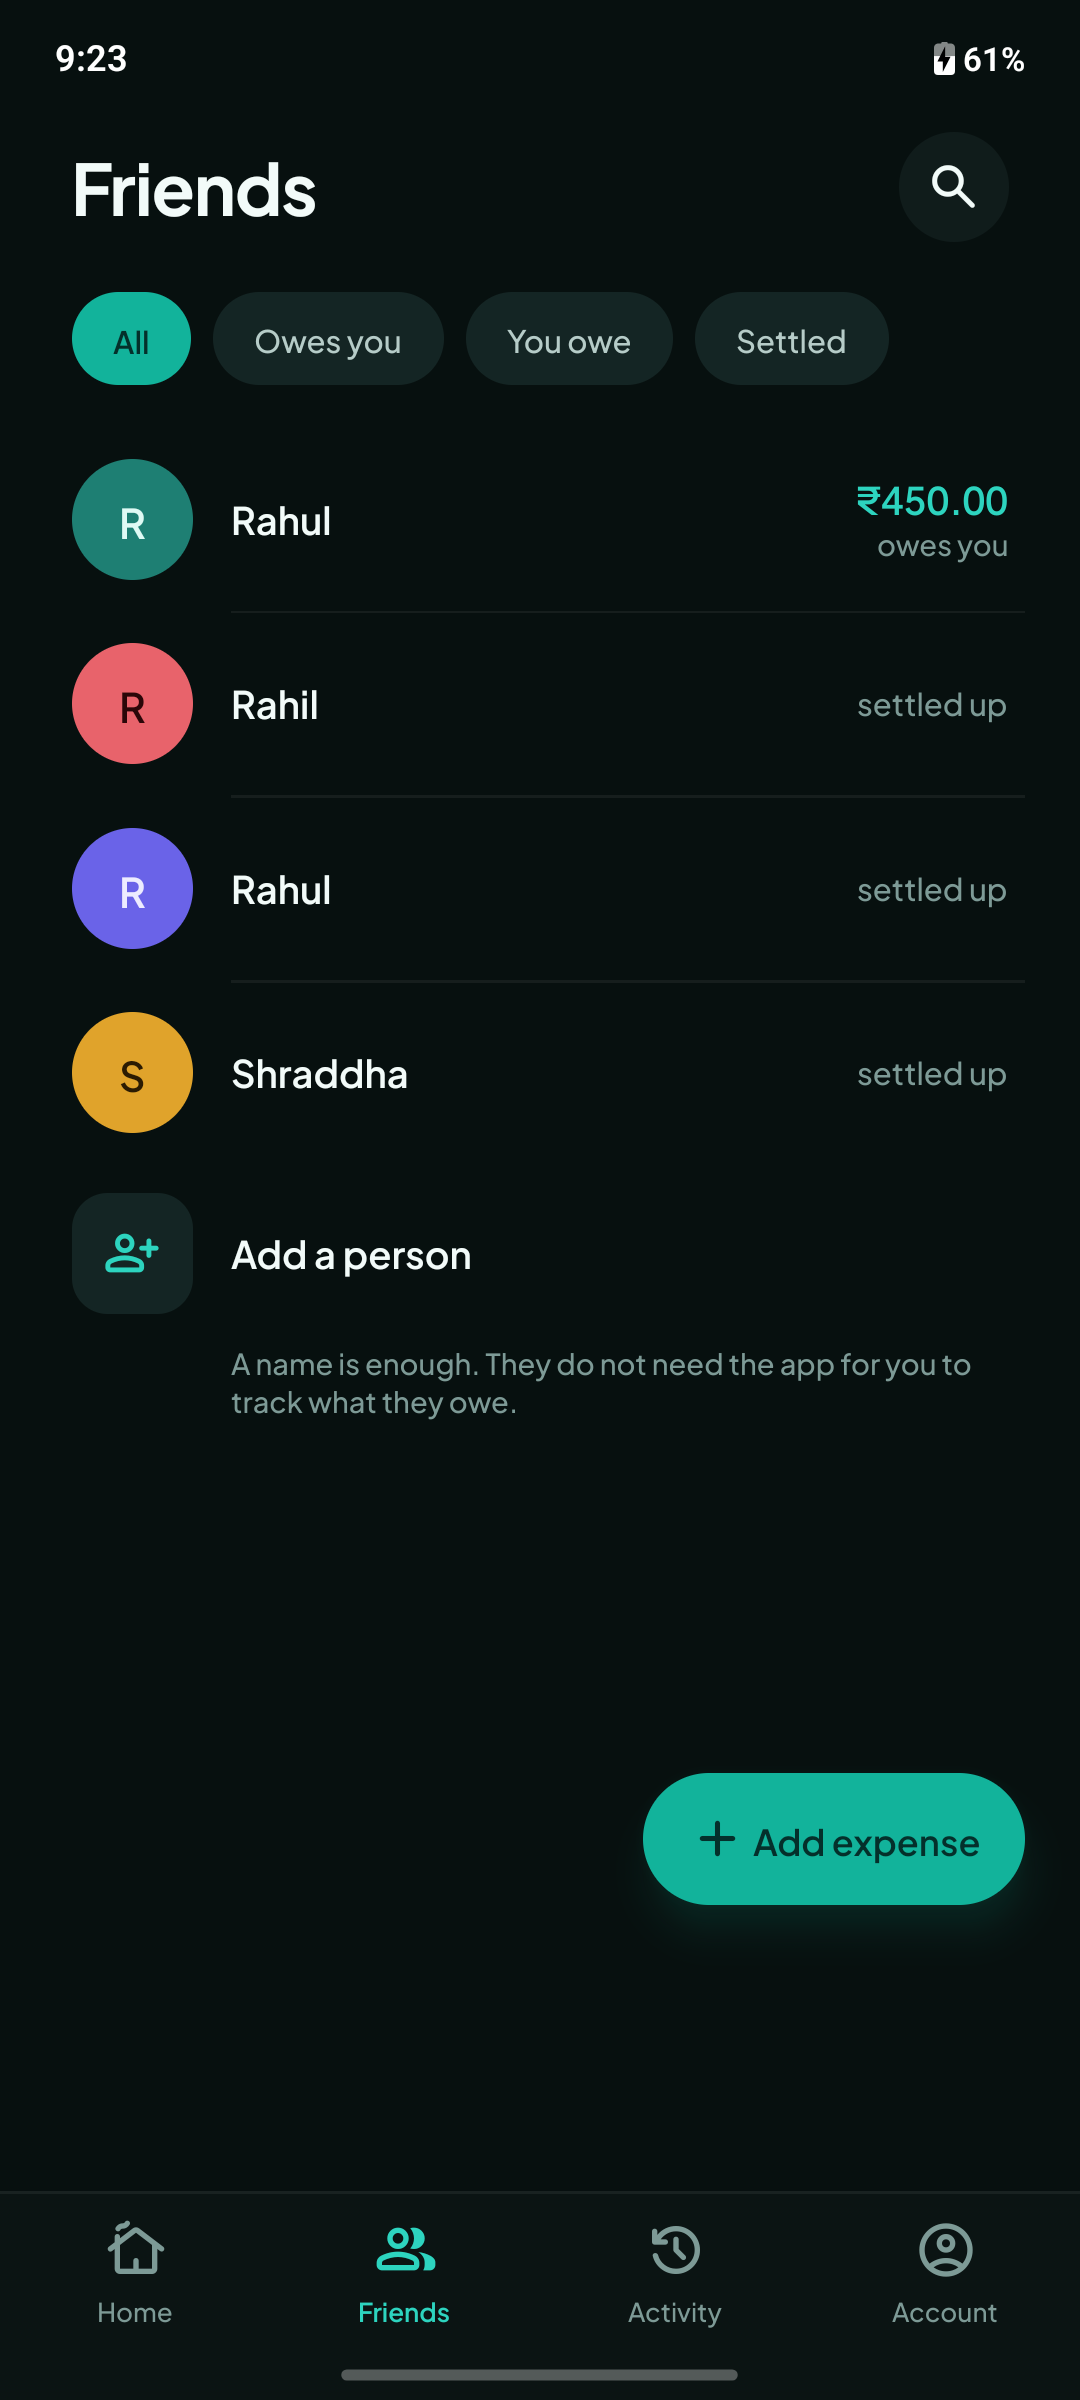
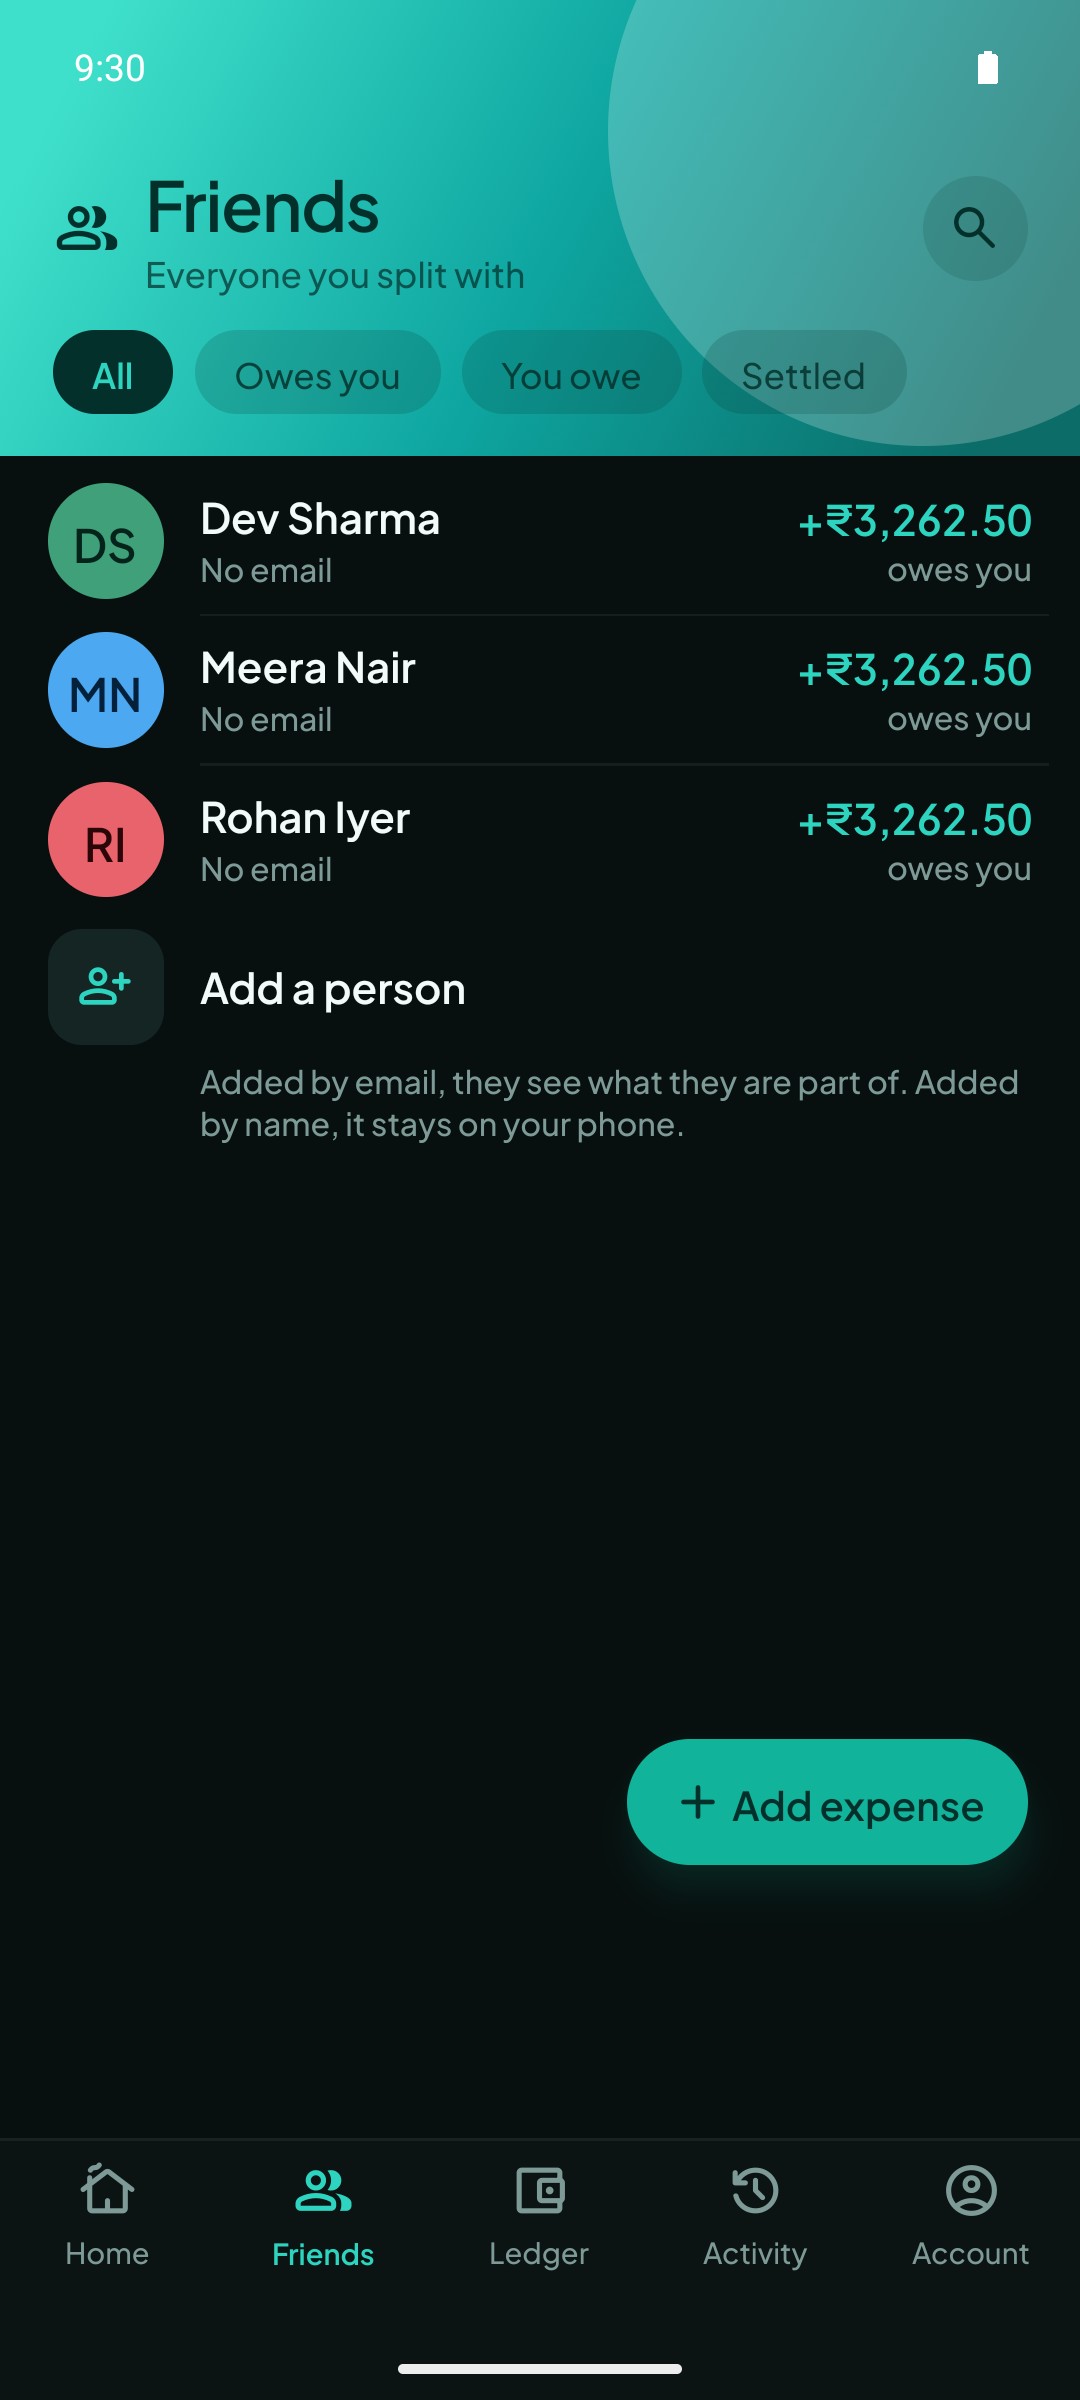
Screenshots of the app as it is now, and the Ledger among them
The five on the site were copied from the Play listing captures of 1 September
and showed a four-tab app -- no Ledger, and none of the October density pass.

Six now, re-captured against a release build of versionCode 34: home, a group,
the add-expense form with its split preview, the ledger, friends and activity.

diff --git a/src/app/page.tsx b/src/app/page.tsx
@@ -44,13 +44,18 @@ const SCREENS = [
   },
   {
     src: '/screens/group.png',
-    alt: 'A group screen listing its expenses and each member’s balance',
+    alt: 'A group screen listing its expenses with what each one is worth to you',
     label: 'A group keeps its own history and balances',
   },
   {
-    src: '/screens/expenses.png',
-    alt: 'A list of expenses grouped under month headings',
-    label: 'Every expense, grouped by month',
+    src: '/screens/add.png',
+    alt: 'The add expense form, showing a four-way split preview with equal shares',
+    label: 'The split is worked out as you type',
+  },
+  {
+    src: '/screens/ledger.png',
+    alt: 'The ledger screen, showing a month total and what is still to come back',
+    label: 'A personal ledger of what you actually paid',
   },
   {
     src: '/screens/friends.png',
@@ -59,7 +64,7 @@ const SCREENS = [
   },
   {
     src: '/screens/activity.png',
-    alt: 'The activity screen with a search field over past expenses',
+    alt: 'The activity screen listing every expense in date order',
     label: 'Search everything you have ever recorded',
   },
 ];
